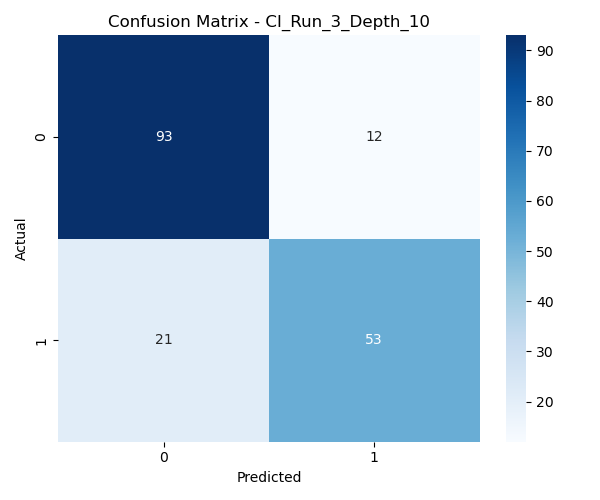
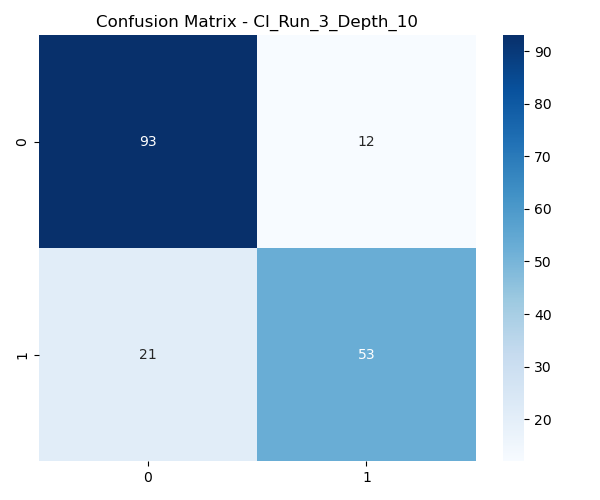
submission final

diff --git a/Workflow_CI_Fikrimandala/MLproject/modelling.py b/Workflow_CI_Fikrimandala/MLproject/modelling.py
@@ -4,26 +4,16 @@ import seaborn as sns
 import mlflow
 import mlflow.sklearn
 import dagshub
+import time
+import os
 from sklearn.model_selection import train_test_split
 from sklearn.ensemble import RandomForestClassifier
 from sklearn.metrics import accuracy_score, precision_score, recall_score, f1_score, confusion_matrix
-import os
+# Import library monitoring
+from prometheus_client import start_http_server, Gauge
 
-def train_model():
-    """
-    Train Random Forest models with hyperparameter tuning and log results to DagsHub via MLflow.
-    Target: Titanic Survival Prediction.
-    """
-import pandas as pd
-import matplotlib.pyplot as plt
-import seaborn as sns
-import mlflow
-import mlflow.sklearn
-import dagshub
-from sklearn.model_selection import train_test_split
-from sklearn.ensemble import RandomForestClassifier
-from sklearn.metrics import accuracy_score, precision_score, recall_score, f1_score, confusion_matrix
-import os
+# --- 1. DEFINISI METRIC MONITORING ---
+ACCURACY_METRIC = Gauge('titanic_model_accuracy', 'Accuracy of the Random Forest Model', ['depth'])
 
 def train_model():
     """
@@ -32,11 +22,11 @@ def train_model():
     """
     print("[INFO] Initializing DagsHub and MLflow configuration...")
     
-    # 1. Initialize DagsHub and MLflow Configuration
+    # Setup MLflow ke DagsHub
     mlflow.set_tracking_uri("https://dagshub.com/fikrimandalaa/Submission_MLOps_Fikrimandala.mlflow")
     mlflow.set_experiment("Titanic_Model_CI_Pipeline")
 
-    # 2. Data Loading and Preparation
+    # Load Data
     dataset_path = 'titanic_clean.csv'
     print(f"[INFO] Loading dataset from {dataset_path}...")
     
@@ -45,14 +35,12 @@ def train_model():
         return
 
     df = pd.read_csv(dataset_path)
-
     X = df.drop('Survived', axis=1)
     y = df['Survived']
 
-    # Split dataset: 80% Training, 20% Testing
     X_train, X_test, y_train, y_test = train_test_split(X, y, test_size=0.2, random_state=42)
 
-    # 3. Hyperparameter Tuning Execution
+    # Rencana Training
     params_list = [
         {'n_estimators': 50, 'max_depth': 3},
         {'n_estimators': 100, 'max_depth': 5},
@@ -64,7 +52,6 @@ def train_model():
         print(f"[INFO] Executing training run: {run_name}")
 
         with mlflow.start_run(run_name=run_name, nested=True):
-            # A. Model Training
             model = RandomForestClassifier(
                 n_estimators=params['n_estimators'], 
                 max_depth=params['max_depth'], 
@@ -72,37 +59,38 @@ def train_model():
             )
             model.fit(X_train, y_train)
 
-            # B. Prediction
             y_pred = model.predict(X_test)
 
-            # C. Metrics Calculation
+            # Hitung Metrics
+            acc = accuracy_score(y_test, y_pred)
             metrics = {
-                'accuracy': accuracy_score(y_test, y_pred),
+                'accuracy': acc,
                 'precision': precision_score(y_test, y_pred),
                 'recall': recall_score(y_test, y_pred),
                 'f1_score': f1_score(y_test, y_pred)
             }
 
-            print(f"   Run Completed. Accuracy: {metrics['accuracy']:.4f}")
+            print(f"   Run Completed. Accuracy: {acc:.4f}")
 
-            # D. Logging to MLflow
+            # --- 2. UPDATE KE PROMETHEUS ---
+            # Kirim data akurasi ke server monitoring
+            ACCURACY_METRIC.labels(depth=params['max_depth']).set(acc)
+            print(f"   [MONITORING] Prometheus metric updated -> Acc {acc:.4f}")
+
+            # Logging MLflow
             mlflow.log_params(params)
             mlflow.log_metrics(metrics)
             mlflow.sklearn.log_model(model, "model")
 
-            # E. Artifact Generation
-            # 1. Confusion Matrix
+            # Simpan Gambar Artifacts
             plt.figure(figsize=(6,5))
             sns.heatmap(confusion_matrix(y_test, y_pred), annot=True, fmt='d', cmap='Blues')
             plt.title(f"Confusion Matrix - {run_name}")
-            plt.ylabel('Actual')
-            plt.xlabel('Predicted')
             plt.tight_layout()
             plt.savefig("confusion_matrix.png")
             mlflow.log_artifact("confusion_matrix.png")
             plt.close()
 
-            # 2. Feature Importance
             feature_imp = pd.Series(model.feature_importances_, index=X.columns).sort_values(ascending=False)
             plt.figure(figsize=(8,5))
             sns.barplot(x=feature_imp, y=feature_imp.index, palette='viridis')
@@ -111,8 +99,24 @@ def train_model():
             plt.savefig("feature_importance.png")
             mlflow.log_artifact("feature_importance.png")
             plt.close()
+            
+            # Kasih jeda 3 detik
+            time.sleep(3) 
 
-    print("\n[SUCCESS] CI Workflow completed. Results verified and uploaded to DagsHub.")
+    print("\n[SUCCESS] Workflow completed.")
 
 if __name__ == "__main__":
+    # --- 3. NYALAKAN SERVER MONITORING (PORT 8000) ---
+    print("[MONITORING] Starting Prometheus metrics server on port 8000...")
+    
+    start_http_server(8000)
+    
+    # Jalankan training
     train_model()
+    
+
+    print("[INFO] Script is now STANDBY to serve metrics.")
+    print("[INFO] DO NOT CLOSE THIS TERMINAL. Press Ctrl+C to stop.")
+    
+    while True:
+        time.sleep(1)

diff --git a/Workflow_CI_Fikrimandala/MLproject/readme.md b/Workflow_CI_Fikrimandala/MLproject/readme.md
@@ -1,0 +1,73 @@
+Titanic Survival Prediction - MLOps Pipeline
+
+Proyek ini adalah implementasi End-to-End MLOps untuk memprediksi keselamatan penumpang Titanic. Proyek ini mencakup Experiment Tracking, Model Registry, dan Real-time Monitoring.
+
+🛠 Tech Stack
+
+Machine Learning: Scikit-learn (Random Forest)
+
+Tracking & Registry: MLflow & DagsHub
+
+Monitoring: Prometheus & Grafana
+
+Version Control: Git & DagsHub
+
+📂 Struktur Project
+
+├── MLproject           # Entry point MLflow
+├── conda.yaml          # Definisi Environment
+├── modelling.py        # Script Training & Monitoring
+├── prometheus.yml      # Config Prometheus
+├── titanic_clean.csv   # Dataset
+└── requirements.txt    # Dependencies
+
+
+🚀 Cara Menjalankan
+
+1. Setup Environment
+
+Pastikan Python 3.9+ dan library terinstall:
+
+pip install mlflow dagshub pandas scikit-learn matplotlib seaborn prometheus-client
+
+
+2. Setup Credentials
+
+Set environment variables untuk autentikasi DagsHub:
+
+MLFLOW_TRACKING_USERNAME
+
+MLFLOW_TRACKING_PASSWORD
+
+3. Menjalankan Training & Monitoring
+
+Jalankan script utama. Script ini akan melakukan training, logging ke DagsHub, dan membuka port 8000 untuk monitoring.
+
+python modelling.py
+
+
+Tunggu hingga muncul pesan "Script is now STANDBY to serve metrics".
+
+4. Menjalankan Dashboard Monitoring
+
+Buka 2 terminal baru untuk menjalankan service berikut:
+
+Terminal Prometheus:
+
+./prometheus.exe --config.file=prometheus.yml
+
+
+Terminal Grafana:
+
+./grafana-server.exe
+
+
+Akses Grafana di http://localhost:3000.
+
+📊 Hasil Monitoring
+
+Experiment Tracking: Tersedia di DagsHub Repository.
+
+Real-time Metrics: Tersedia di Dashboard Grafana (Akurasi Model per Depth).
+
+Submission MLOps Dicoding - Fikri Mandala
